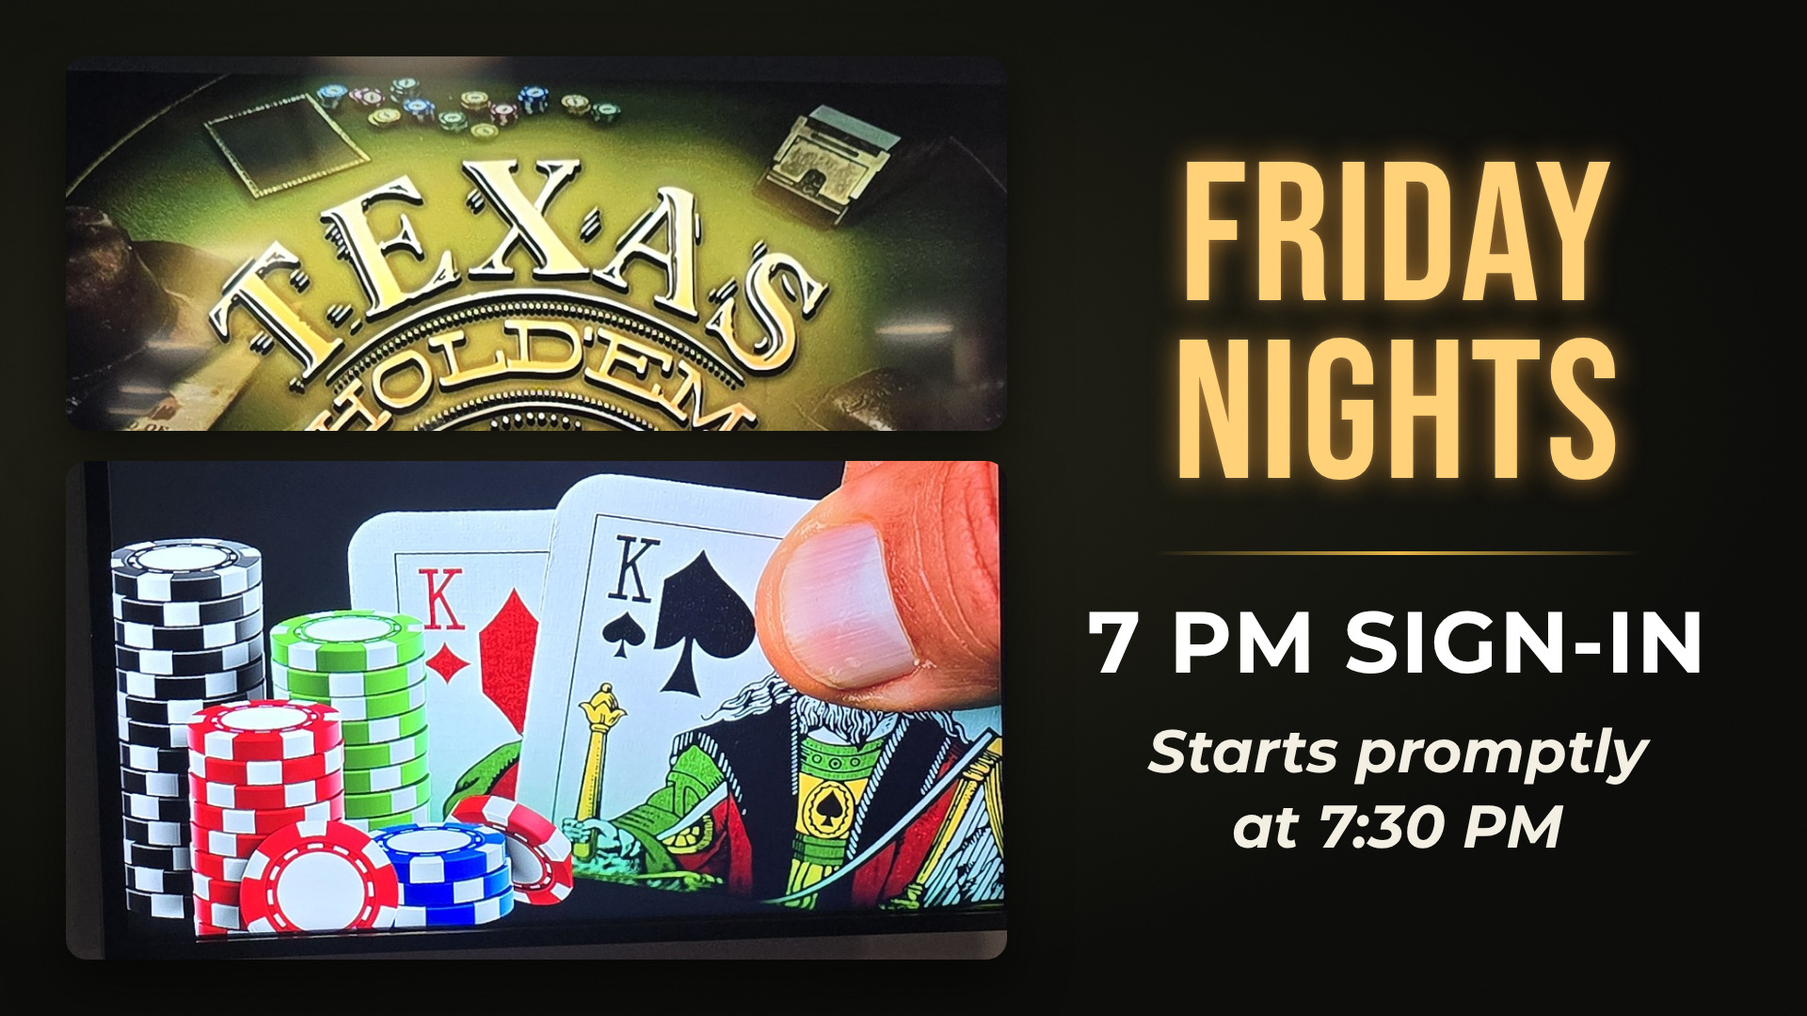
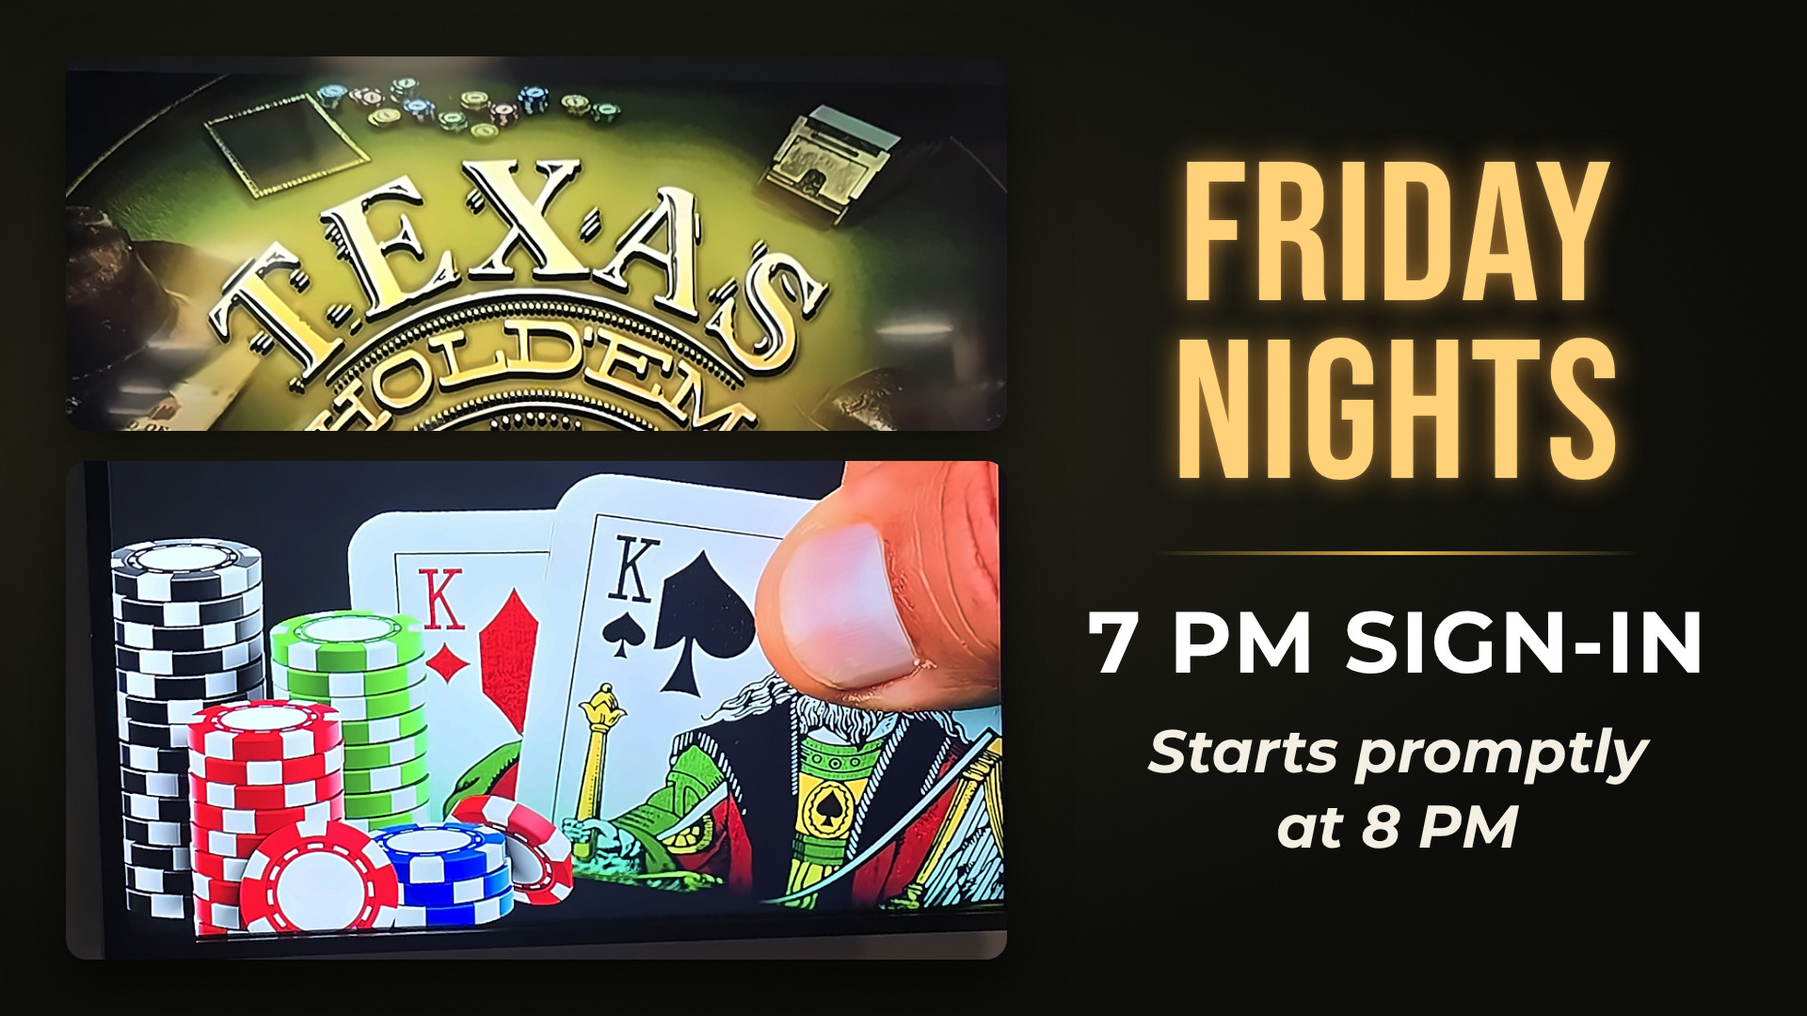
Voice keeps retrying until the TV speech engine is ready
If the TV speech engine was not ready when the app started (for example when it opens itself at boot), the app now keeps asking every 20 seconds instead of staying silent until restarted

Setup shows Voice engine: ready, or starting or not available, right under the Voice row

diff --git a/app/src/main/java/com/wyred4fun/pokertimer/SetupActivity.kt b/app/src/main/java/com/wyred4fun/pokertimer/SetupActivity.kt
@@ -258,6 +258,34 @@ class SetupActivity : Activity() {
     /** Android 10 and later only let an app open itself at startup with "Display over other apps" allowed. */
     private fun startupAllowed() = Build.VERSION.SDK_INT < 29 || Settings.canDrawOverlays(this)
 
+    private lateinit var startBtn: TextView
+    private lateinit var startRow: LinearLayout
+    private lateinit var startLabel: TextView
+
+    private lateinit var voiceNote: TextView
+    private val voiceTick = object : Runnable {
+        override fun run() { refreshVoice(); Announcer.retryVoice(); if (!Announcer.voiceReady()) voiceNote.postDelayed(this, 3000) }
+    }
+
+    /** Is the TV's speech engine ready? Shows right under the Voice row; keeps checking until it is. */
+    private fun refreshVoice() {
+        if (!::voiceNote.isInitialized) return
+        val ok = Announcer.voiceReady()
+        voiceNote.text = if (ok) "Voice engine: ready" else "Voice engine: starting or not available on this TV"
+        voiceNote.setTextColor(if (ok) C.MUTED else C.GOLD)
+        voiceNote.removeCallbacks(voiceTick)
+        if (!ok) voiceNote.postDelayed(voiceTick, 3000)
+    }
+
+    private fun refreshStart() {
+        if (!::startBtn.isInitialized) return
+        PreGame.loadStart(this)
+        val custom = Prefs.startCustom(this)
+        startBtn.text = "Game start:  " + if (custom) "Custom" else PreGame.startsAt()
+        startRow.visibility = if (custom) View.VISIBLE else View.GONE
+        startLabel.text = PreGame.startsAt()
+    }
+
     private fun refreshStartup() {
         val on = Prefs.openAtStartup(this)
         toggleText(startupBtn, if (on) "Open at startup:  On" else "Open at startup:  Off", on)
@@ -593,7 +621,7 @@ class SetupActivity : Activity() {
         }
         val doneRow = ui.row().apply { gravity = Gravity.END }
         if (BuildConfig.CLUB) {
-            // leave the timer and run the club billboard (slides all week, the countdown Friday 5 PM to 7:30 PM)
+            // leave the timer and run the club billboard (slides all week, the countdown Friday 5 PM to 8:00 PM)
             val activate = ui.button("Activate billboard", height = 76f, textSize = 28f).apply {
                 setPadding(ui.px(36), 0, ui.px(36), 0)
                 setOnClickListener {
@@ -642,6 +670,9 @@ class SetupActivity : Activity() {
                 show()
             }
         }, 5)
+        voiceNote = ui.text(20f, C.MUTED, ui.bold).apply { setSingleLine(true) }
+        right.addView(voiceNote, ui.lp(ui.MATCH, ui.WRAP).apply { topMargin = ui.px(2) })
+        refreshVoice()
         knockBtn = ui.button("Notification sound", height = 44f, textSize = 28f).apply {
             gravity = Gravity.CENTER_VERTICAL
             setPadding(ui.px(26), 0, ui.px(26), 0)
@@ -670,7 +701,38 @@ class SetupActivity : Activity() {
         gap(startupBtn, 5)
         startupNote = ui.text(20f, C.MUTED, ui.bold).apply { setSingleLine(true); ellipsize = android.text.TextUtils.TruncateAt.END }
         right.addView(startupNote, ui.lp(ui.MATCH, ui.WRAP).apply { topMargin = ui.px(4) })
-        // Friday 5 PM countdown, 7:30 PM the game starts by itself, Saturday 2 AM back to the billboard (app must be open)
+        startBtn = ui.button("Game start", height = 44f, textSize = 28f).apply {
+            gravity = Gravity.CENTER_VERTICAL
+            setPadding(ui.px(26), 0, ui.px(26), 0)
+            background = ui.pillBg(C.FELT, C.EDGE, C.PANEL_HI, C.GOLD, 20f)
+            // OK steps 7:30 PM -> 8:00 PM -> Custom -> 7:30 PM
+            setOnClickListener {
+                val custom = Prefs.startCustom(this@SetupActivity)
+                val cur = PreGame.gameMinutes
+                when {
+                    custom -> { Prefs.setStart(this@SetupActivity, 19 * 60 + 30, false) }
+                    cur == 19 * 60 + 30 -> { Prefs.setStart(this@SetupActivity, 20 * 60, false) }
+                    else -> { Prefs.setStart(this@SetupActivity, if (cur == 20 * 60) cur else 20 * 60, true) }
+                }
+                PreGame.loadStart(this@SetupActivity); refreshStart()
+            }
+        }
+        fun stepBtn(label: String, delta: Int) = ui.button(label, height = 44f, textSize = 28f).apply {
+            background = ui.pillBg(C.FELT, C.EDGE, C.PANEL_HI, C.GOLD, 20f)
+            setOnClickListener {
+                val nv = (PreGame.gameMinutes + delta).coerceIn(PreGame.START_MIN, PreGame.START_MAX)
+                Prefs.setStart(this@SetupActivity, nv, true)
+                PreGame.loadStart(this@SetupActivity); refreshStart()
+            }
+        }
+        startLabel = ui.text(28f, C.CREAM, ui.bold).apply { gravity = Gravity.CENTER }
+        startRow = ui.row().apply {
+            gravity = Gravity.CENTER_VERTICAL
+            addView(stepBtn("\u2212 15 min", -15), ui.lp(0, ui.WRAP, 1f))
+            addView(startLabel, ui.lp(0, ui.WRAP, 1f))
+            addView(stepBtn("+ 15 min", 15), ui.lp(0, ui.WRAP, 1f))
+        }
+        // Friday 5 PM countdown, 8:00 PM the game starts by itself, Saturday 2 AM back to the billboard (app must be open)
         preGameBtn = ui.button("Friday game auto-start", height = 44f, textSize = 28f).apply {
             gravity = Gravity.CENTER_VERTICAL
             setPadding(ui.px(26), 0, ui.px(26), 0)
@@ -684,6 +746,10 @@ class SetupActivity : Activity() {
         // the Friday countdown and the slides are only in the Catalpa Club Poker Timer version
         if (BuildConfig.CLUB) {
             gap(preGameBtn, 5)
+            // when the game starts by itself: 7:30 PM, 8:00 PM, or a custom time in 15-minute steps
+            gap(startBtn, 5)
+            gap(startRow, 5)
+            refreshStart()
             gap(switchRow("Club billboard slides", "billboard") { Billboard.enabled(this) }, 5)
             // which pictures are in the billboard: see them all, switch each on or off
             gap(ui.button("Billboard images  \u203A", height = 44f, textSize = 28f).apply {

diff --git a/app/src/main/java/com/wyred4fun/pokertimer/MainActivity.kt b/app/src/main/java/com/wyred4fun/pokertimer/MainActivity.kt
@@ -75,6 +75,7 @@ class MainActivity : Activity(), TimerEngine.Listener {
         override fun run() {
             engine.update(SystemClock.elapsedRealtime())
             fridayNight(SystemClock.elapsedRealtime())
+            Announcer.retryVoice()
             snapBackIfIdle()
             render()
             val now = SystemClock.elapsedRealtime()
@@ -113,6 +114,7 @@ class MainActivity : Activity(), TimerEngine.Listener {
         if (Prefs.theme(this) != themeShown) { recreate(); return }
         useChips = Prefs.chips(this)
         preGameOn = PreGame.enabled(this)
+        PreGame.loadStart(this)
         billboardMode = getSharedPreferences("poker_timer", MODE_PRIVATE).getBoolean("billboardMode", false)
         billboardOn = Billboard.enabled(this)
         resumed = true
@@ -351,13 +353,14 @@ class MainActivity : Activity(), TimerEngine.Listener {
 
     /**
      * Friday night by itself (Catalpa Club Poker Timer, with "Friday game auto-start" on):
-     * 7:30 PM the timer starts with nobody pressing anything, and Saturday 2:00 AM the night is reset so the billboard takes over.
+     * 8:00 PM the timer starts with nobody pressing anything, and Saturday 2:00 AM the night is reset so the billboard takes over.
      */
     private fun fridayNight(now: Long) {
         if (!BuildConfig.CLUB || now - fridayCheckedAt < 1000) return
         fridayCheckedAt = now
         val wall = PreGame.clock()
         val sp = getSharedPreferences("poker_timer", MODE_PRIVATE)
+        PreGame.loadStart(this)             // the start time may have just been changed in Setup
         // Saturday 2 AM: reset (the very first look just records where we are, so installing mid-game never wipes it)
         val on = PreGame.enabled(this)      // read fresh: the switch may have just been changed in Setup
         val w0 = PreGame.window(wall)
@@ -381,17 +384,18 @@ class MainActivity : Activity(), TimerEngine.Listener {
         // 6:00, 6:30, 7:00 and 7:15 PM: a chime and "Poker starts in ..." (only if the timer isn't running yet; an app opened late skips the ones that are over)
         if (on && !engine.running && wall >= w0.showFrom && wall < w0.gameAt) {
             val done = (sp.getString("announced", "") ?: "").let { v -> if (v.startsWith("${w0.gameAt}:")) v.substringAfter(':').split(',').filter { it.isNotEmpty() } else emptyList() }
-            for (min in PreGame.HEADS_UP_MIN) {
-                val at = w0.gameAt - min * 60_000L
-                if (wall in at until at + 2 * 60_000L && min.toString() !in done) {
-                    sp.edit().putString("announced", "${w0.gameAt}:" + (done + min.toString()).joinToString(",")).apply()
+            for (clockMin in PreGame.HEADS_UP_AT) {
+                val at = w0.showFrom + (clockMin - PreGame.SHOW_HOUR * 60) * 60_000L
+                val left = ((w0.gameAt - at) / 60_000L).toInt()
+                if (left >= 5 && wall in at until at + 2 * 60_000L && clockMin.toString() !in done) {
+                    sp.edit().putString("announced", "${w0.gameAt}:" + (done + clockMin.toString()).joinToString(",")).apply()
                     Announcer.chime()
-                    Announcer.say(PreGame.headsUp(min), 1200)
+                    Announcer.say(PreGame.headsUp(left), 1200)
                     break
                 }
             }
         }
-        // 7:30 PM Friday: start, once per Friday, unless someone already started the night
+        // 8:00 PM Friday: start, once per Friday, unless someone already started the night
         val w = w0
         if (on && wall >= w.gameAt && wall < w.endsAt && sp.getLong("autoStartedFor", 0L) < w.gameAt &&
             startedAt < w.showFrom && !engine.running) {
@@ -609,7 +613,7 @@ class MainActivity : Activity(), TimerEngine.Listener {
 
     /** "11:43 PM", or "23:43" if the box is set to a 24-hour clock. */
     /**
-     * Over the timer: the Friday countdown (Friday 5 PM until the game starts by itself at 7:30), else the club billboard
+     * Over the timer: the Friday countdown (Friday 5 PM until the game starts by itself at 8:00), else the club billboard
      * whenever poker isn't on. A remote press puts either aside for 90 seconds.
      */
     private fun renderPreGame(now: Long) {

diff --git a/app/src/main/java/com/wyred4fun/pokertimer/PreGame.kt b/app/src/main/java/com/wyred4fun/pokertimer/PreGame.kt
@@ -9,8 +9,8 @@ import java.util.Calendar
 
 /**
  * Friday night, by itself:
- *  - Friday 5:00 PM: the "Poker starts sharp at 7:30 PM" countdown comes up and stays up.
- *  - Friday 7:30 PM: the game starts with no one touching anything (Start is already pressed; OK pauses it).
+ *  - Friday 5:00 PM: the "Poker starts sharp at 8:00 PM" countdown comes up and stays up.
+ *  - Friday 8:00 PM: the game starts with no one touching anything (Start is already pressed; OK pauses it).
  *  - Saturday 2:00 AM: the night is reset and the club billboard takes over again.
  *  - Saturday to Friday afternoon: the countdown takes the last 3 minutes of every quarter hour between slides.
  * It only runs while the app is open on the TV; the app does not open itself for it.
@@ -18,11 +18,27 @@ import java.util.Calendar
 object PreGame {
     const val GAME_DAY = Calendar.FRIDAY
     const val SHOW_HOUR = 17          // Friday 5:00 PM
-    const val GAME_HOUR = 19
-    const val GAME_MINUTE = 30        // Friday 7:30 PM
     const val END_HOUR = 2            // Saturday 2:00 AM
     const val TITLE = "FRIDAY NIGHT GAME"
-    const val STARTS_AT = "7:30 PM"
+
+    /** Game start, minutes after midnight (Setup: 7:30 PM, 8:00 PM or custom). Default 8:00 PM. */
+    const val DEFAULT_START = 20 * 60
+    const val START_MIN = 17 * 60 + 30   // custom range: 5:30 PM ...
+    const val START_MAX = 23 * 60 + 30   // ... to 11:30 PM
+    @Volatile var gameMinutes = DEFAULT_START
+
+    /** Reads the saved start time (call whenever the app comes forward or Setup changes it). */
+    fun loadStart(ctx: android.content.Context) {
+        val v = ctx.getSharedPreferences("poker_timer", android.content.Context.MODE_PRIVATE).getInt("startMin", DEFAULT_START)
+        gameMinutes = v.coerceIn(START_MIN, START_MAX)
+    }
+
+    fun startsAt(): String = format(gameMinutes)
+
+    fun format(minutes: Int): String {
+        val h = minutes / 60; val m = minutes % 60
+        return "${if (h % 12 == 0) 12 else h % 12}:${if (m < 10) "0$m" else "$m"} ${if (h < 12) "AM" else "PM"}"
+    }
 
     /** Wall clock (ms); tests swap it. */
     var clock: () -> Long = { System.currentTimeMillis() }
@@ -41,13 +57,14 @@ object PreGame {
         fun at(h: Int, m: Int, plusDays: Int = 0) = (day.clone() as Calendar).apply {
             add(Calendar.DAY_OF_YEAR, plusDays); set(Calendar.HOUR_OF_DAY, h); set(Calendar.MINUTE, m)
         }.timeInMillis
-        return Window(at(SHOW_HOUR, 0), at(GAME_HOUR, GAME_MINUTE), at(END_HOUR, 0, 1))
+        return Window(at(SHOW_HOUR, 0), at(gameMinutes / 60, gameMinutes % 60), at(END_HOUR, 0, 1))
     }
 
-    /** Friday evening heads-ups: minutes before the game (6:00, 6:30, 7:00 and 7:15 PM). */
-    val HEADS_UP_MIN = listOf(90, 60, 30, 15)
+    /** Friday evening heads-ups sit at fixed clock times (6:00, 6:30, 7:00 and 7:15 PM), whatever the start time; each says how long is left. */
+    val HEADS_UP_AT = listOf(18 * 60, 18 * 60 + 30, 19 * 60, 19 * 60 + 15)
 
     fun headsUp(minutes: Int): String = when (minutes) {
+        120 -> "Attention players. Poker starts in 2 hours."
         90 -> "Attention players. Poker starts in 90 minutes."
         60 -> "Attention players. Poker starts in one hour."
         else -> "Attention players. Poker starts in $minutes minutes."

diff --git a/app/src/main/java/com/wyred4fun/pokertimer/Announcer.kt b/app/src/main/java/com/wyred4fun/pokertimer/Announcer.kt
@@ -37,28 +37,51 @@ object Announcer {
     fun init(ctx: Context) {
         if (app != null) return
         app = ctx.applicationContext
-        try {
-            tts = TextToSpeech(ctx.applicationContext) { status ->
-                if (status == TextToSpeech.SUCCESS) {
-                    tts?.let {
-                        val r = it.setLanguage(Locale.US)
-                        ttsReady = r != TextToSpeech.LANG_MISSING_DATA && r != TextToSpeech.LANG_NOT_SUPPORTED
-                        it.setSpeechRate(0.92f)
-                        it.setOnUtteranceProgressListener(object : UtteranceProgressListener() {
-                            override fun onStart(id: String?) {}
-                            override fun onError(id: String?) {}
-                            override fun onDone(id: String?) { prepared(id) }
-                        })
-                        prepare(DEMO_TEXT)
-                    }
-                }
-            }
-        } catch (e: Exception) {
-            tts = null
-        }
+        startVoice()
         useKnock(Prefs.knockSound(ctx))
         chimeTrack = makeTrack(chimePcm(), RATE)
     }
+
+    private var voiceTriedAt = 0L
+
+    /** Ask the box's speech engine to start. (Right after a boot it is often not up yet, so this can be repeated: see retryVoice.) */
+    private fun startVoice() {
+        val ctx = app ?: return
+        voiceTriedAt = android.os.SystemClock.elapsedRealtime()
+        ttsReady = false
+        try { tts?.shutdown() } catch (e: Exception) {}
+        tts = null
+        try {
+            var mine: TextToSpeech? = null
+            mine = TextToSpeech(ctx) { status ->
+                val t = mine
+                if (t == null || t !== tts) return@TextToSpeech          // an older attempt that was replaced
+                if (status == TextToSpeech.SUCCESS) {
+                    val r = t.setLanguage(Locale.US)
+                    ttsReady = r != TextToSpeech.LANG_MISSING_DATA && r != TextToSpeech.LANG_NOT_SUPPORTED
+                    t.setSpeechRate(0.92f)
+                    t.setOnUtteranceProgressListener(object : UtteranceProgressListener() {
+                        override fun onStart(id: String?) {}
+                        override fun onError(id: String?) {}
+                        override fun onDone(id: String?) { prepared(id) }
+                    })
+                    if (ttsReady) prepare(DEMO_TEXT)
+                }
+            }
+            tts = mine
+        } catch (e: Exception) {
+            tts = null
+        }
+    }
+
+    /** Called every few seconds by the timer screen: if the voice still is not ready 20 seconds after the last try, try again. */
+    fun retryVoice() {
+        if (app == null || ttsReady) return
+        if (android.os.SystemClock.elapsedRealtime() - voiceTriedAt >= 20_000L) startVoice()
+    }
+
+    /** For Setup: is the spoken voice working? */
+    fun voiceReady() = ttsReady
 
     fun soundsOn() = app?.let { Prefs.sounds(it) } ?: true
     private fun voiceMode() = app?.let { Prefs.voiceMode(it) } ?: Prefs.VOICE_BLINDS

diff --git a/app/src/test/java/com/wyred4fun/pokertimer/TimerEngineTest.kt b/app/src/test/java/com/wyred4fun/pokertimer/TimerEngineTest.kt
@@ -311,27 +311,27 @@ class TimerEngineTest {
         java.util.Calendar.getInstance().apply { clear(); set(2026, java.util.Calendar.OCTOBER, day, h, m, sec) }.timeInMillis
 
     @Test fun fridayCountdownWindow() {
-        // Friday 4:59 PM: not yet; 5:00 PM: up, counting to 7:30 PM (2 h 30 min away)
+        // Friday 4:59 PM: not yet; 5:00 PM: up, counting to 8:00 PM (3 h away)
         assertFalse(PreGame.showing(at(30, 16, 59), 0, false))
         assertTrue(PreGame.showing(at(30, 17, 0), 0, false))
-        assertEquals(at(30, 19, 30), PreGame.window(at(30, 17, 0)).gameAt)
-        assertEquals(2L * 3600 + 30 * 60, (PreGame.window(at(30, 17, 0)).gameAt - at(30, 17, 0)) / 1000)
+        assertEquals(at(30, 20, 0), PreGame.window(at(30, 17, 0)).gameAt)
+        assertEquals(3L * 3600, (PreGame.window(at(30, 17, 0)).gameAt - at(30, 17, 0)) / 1000)
         // Thursday: nothing any more (the countdown starts Friday at 5), but it already knows which Friday is next
         assertFalse(PreGame.showing(at(29, 17, 0), 0, false))
-        assertEquals(at(30, 19, 30), PreGame.window(at(29, 17, 0)).gameAt)
+        assertEquals(at(30, 20, 0), PreGame.window(at(29, 17, 0)).gameAt)
         // the night belongs to Friday until 2 AM Saturday
-        assertEquals(at(30, 19, 30), PreGame.window(at(31, 1, 59)).gameAt)
+        assertEquals(at(30, 20, 0), PreGame.window(at(31, 1, 59)).gameAt)
         assertEquals(at(31, 2, 0), PreGame.window(at(31, 1, 59)).endsAt)
-        assertEquals(at(6, 19, 30).let { java.util.Calendar.getInstance().apply { clear(); set(2026, java.util.Calendar.NOVEMBER, 6, 19, 30) }.timeInMillis },
+        assertEquals(at(6, 20, 0).let { java.util.Calendar.getInstance().apply { clear(); set(2026, java.util.Calendar.NOVEMBER, 6, 20, 0) }.timeInMillis },
             PreGame.window(at(31, 2, 0)).gameAt)
-        // after 7:30 with nobody started it stays up until 2 AM, then it is over
+        // after 8:00 with nobody started it stays up until 2 AM, then it is over
         assertTrue(PreGame.showing(at(30, 20, 15), 0, false))
         assertTrue(PreGame.showing(at(31, 1, 59), 0, false))
         assertFalse(PreGame.showing(at(31, 2, 0), 0, false))
         // Start pressed (or the clock running) takes it away; last week's start doesn't count
         assertFalse(PreGame.showing(at(30, 19, 0), at(30, 18, 55), false))
         assertFalse(PreGame.showing(at(30, 19, 0), 0, true))
-        assertTrue(PreGame.showing(at(30, 19, 0), at(23, 19, 30), false))
+        assertTrue(PreGame.showing(at(30, 19, 0), at(23, 20, 0), false))
         // other days: nothing
         assertFalse(PreGame.showing(at(27, 19, 0), 0, false))
         assertFalse(PreGame.showing(at(31, 12, 0), 0, false))

diff --git a/app/src/main/java/com/wyred4fun/pokertimer/PreGameView.kt b/app/src/main/java/com/wyred4fun/pokertimer/PreGameView.kt
@@ -15,10 +15,11 @@ import android.widget.LinearLayout
 import android.widget.TextView
 
 /**
- * The full-screen Friday countdown ("Poker starts sharp at 7:30 PM") laid over the timer.
+ * The full-screen Friday countdown ("Poker starts sharp at 8:00 PM") laid over the timer.
  * Cards and chips pop up around the edges one at a time.
  */
 class PreGameView(ctx: Context, private val ui: Ui) : FrameLayout(ctx) {
+    private lateinit var startsText: TextView
     private val clockText: TextView
     private val boxes: LinearLayout
     private val hh: TextView
@@ -81,7 +82,8 @@ class PreGameView(ctx: Context, private val ui: Ui) : FrameLayout(ctx) {
         val center = ui.col().apply { gravity = Gravity.CENTER_HORIZONTAL }
         center.addView(ui.text(40f, C.MUTED, ui.bold, 0.3f).apply { text = "POKER STARTS SHARP AT"; gravity = Gravity.CENTER },
             ui.lp(ui.MATCH, ui.WRAP))
-        center.addView(ui.text(250f, C.GOLD, ui.bebas, 0.02f).apply { text = PreGame.STARTS_AT },
+        startsText = ui.text(250f, C.GOLD, ui.bebas, 0.02f).apply { text = PreGame.startsAt() }
+        center.addView(startsText,
             ui.lp(ui.WRAP, ui.WRAP).apply { topMargin = ui.px(14) })
         boxes = ui.row().apply { gravity = Gravity.TOP }
         fun box(label: String): Pair<TextView, View> {
@@ -144,6 +146,7 @@ class PreGameView(ctx: Context, private val ui: Ui) : FrameLayout(ctx) {
 
     /** Call a few times a second while showing. [wall] = System.currentTimeMillis(). */
     fun update(wall: Long, clock: String, uptime: Long) {
+        if (::startsText.isInitialized) set(startsText, PreGame.startsAt())
         if (clockText.text.toString() != clock) clockText.text = clock
         val w = PreGame.window(wall)
         var left = Math.ceil((w.gameAt - wall) / 1000.0).toLong()

diff --git a/app/src/main/java/com/wyred4fun/pokertimer/Lineup.kt b/app/src/main/java/com/wyred4fun/pokertimer/Lineup.kt
@@ -116,6 +116,12 @@ object Prefs {
     fun setTheme(ctx: Context, id: String) {
         ctx.getSharedPreferences(PREFS, Context.MODE_PRIVATE).edit().putString("theme", id).apply()
     }
+    fun startCustom(ctx: Context) = ctx.getSharedPreferences(PREFS, Context.MODE_PRIVATE).getBoolean("startCustom", false)
+
+    fun setStart(ctx: Context, minutes: Int, custom: Boolean) {
+        ctx.getSharedPreferences(PREFS, Context.MODE_PRIVATE).edit().putInt("startMin", minutes).putBoolean("startCustom", custom).apply()
+    }
+
     fun set(ctx: Context, key: String, value: Boolean) {
         ctx.getSharedPreferences(PREFS, Context.MODE_PRIVATE).edit().putBoolean(key, value).apply()
     }
